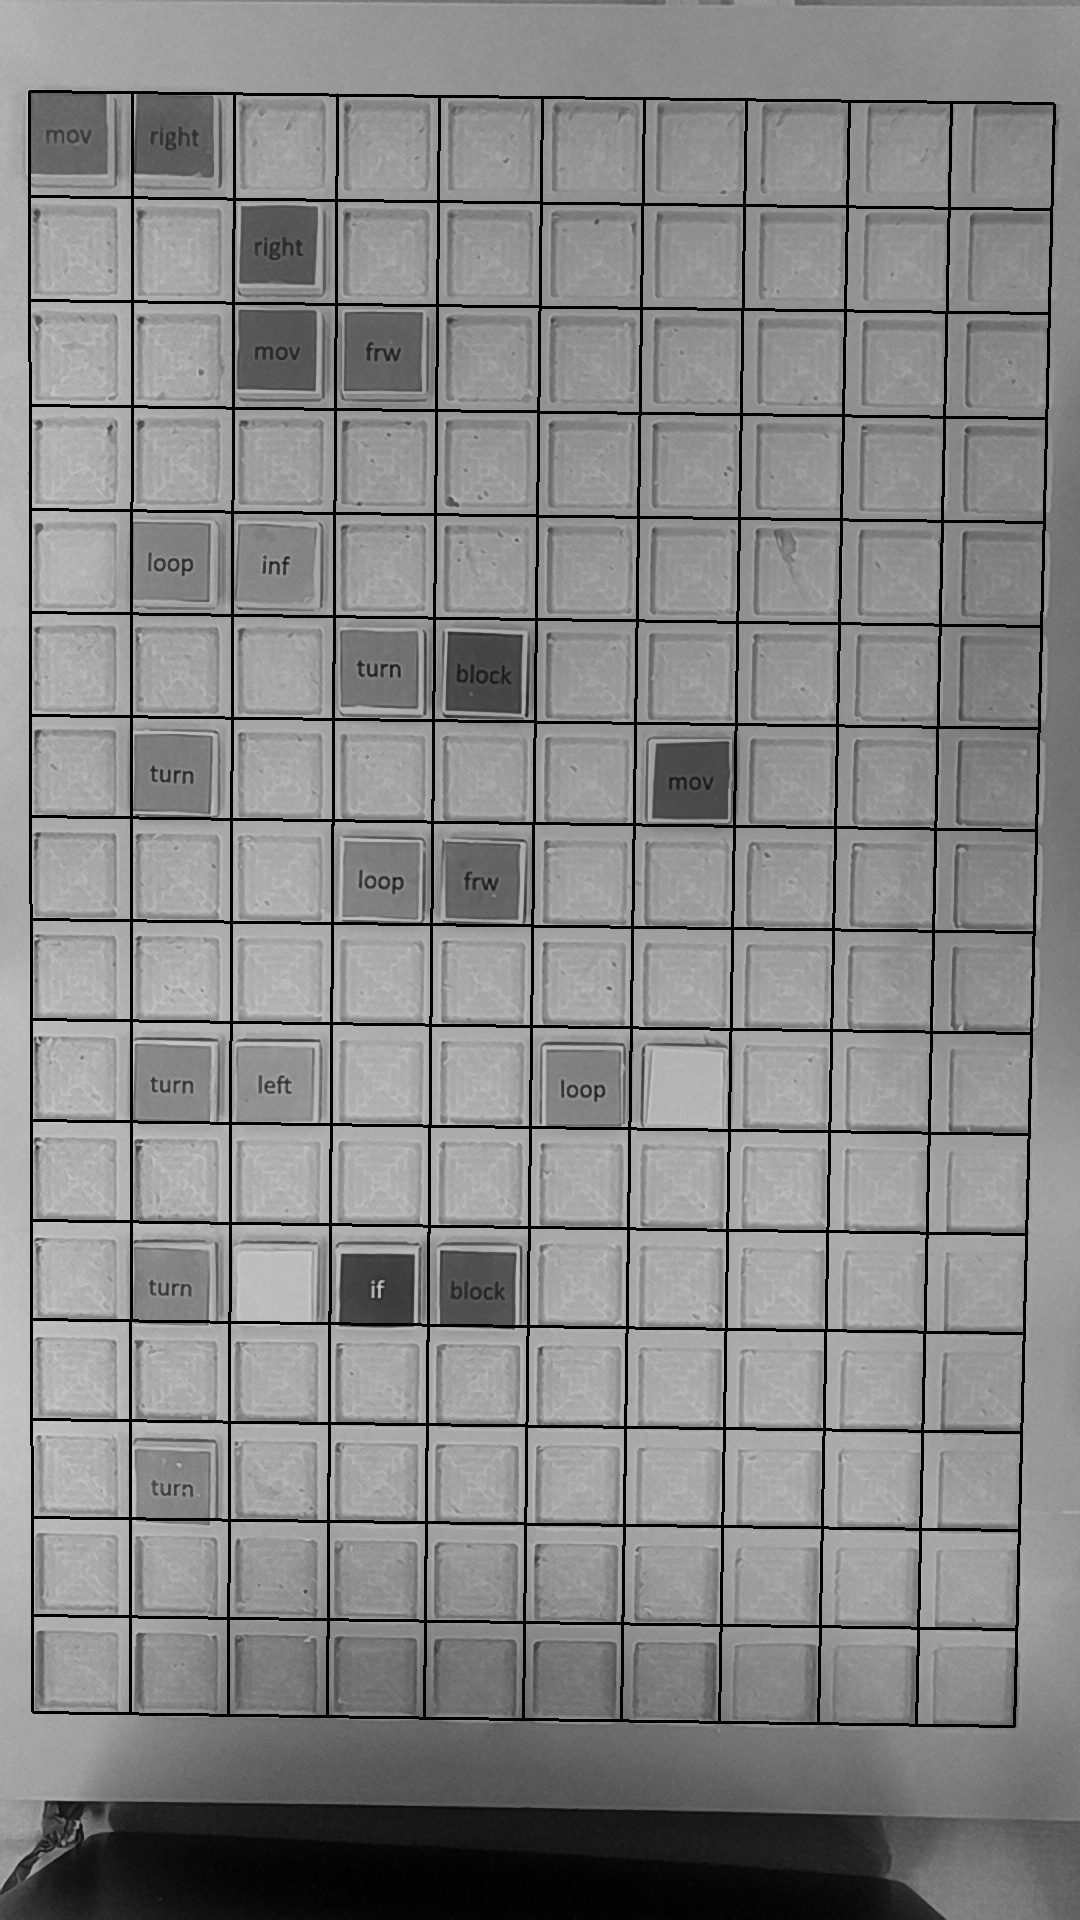
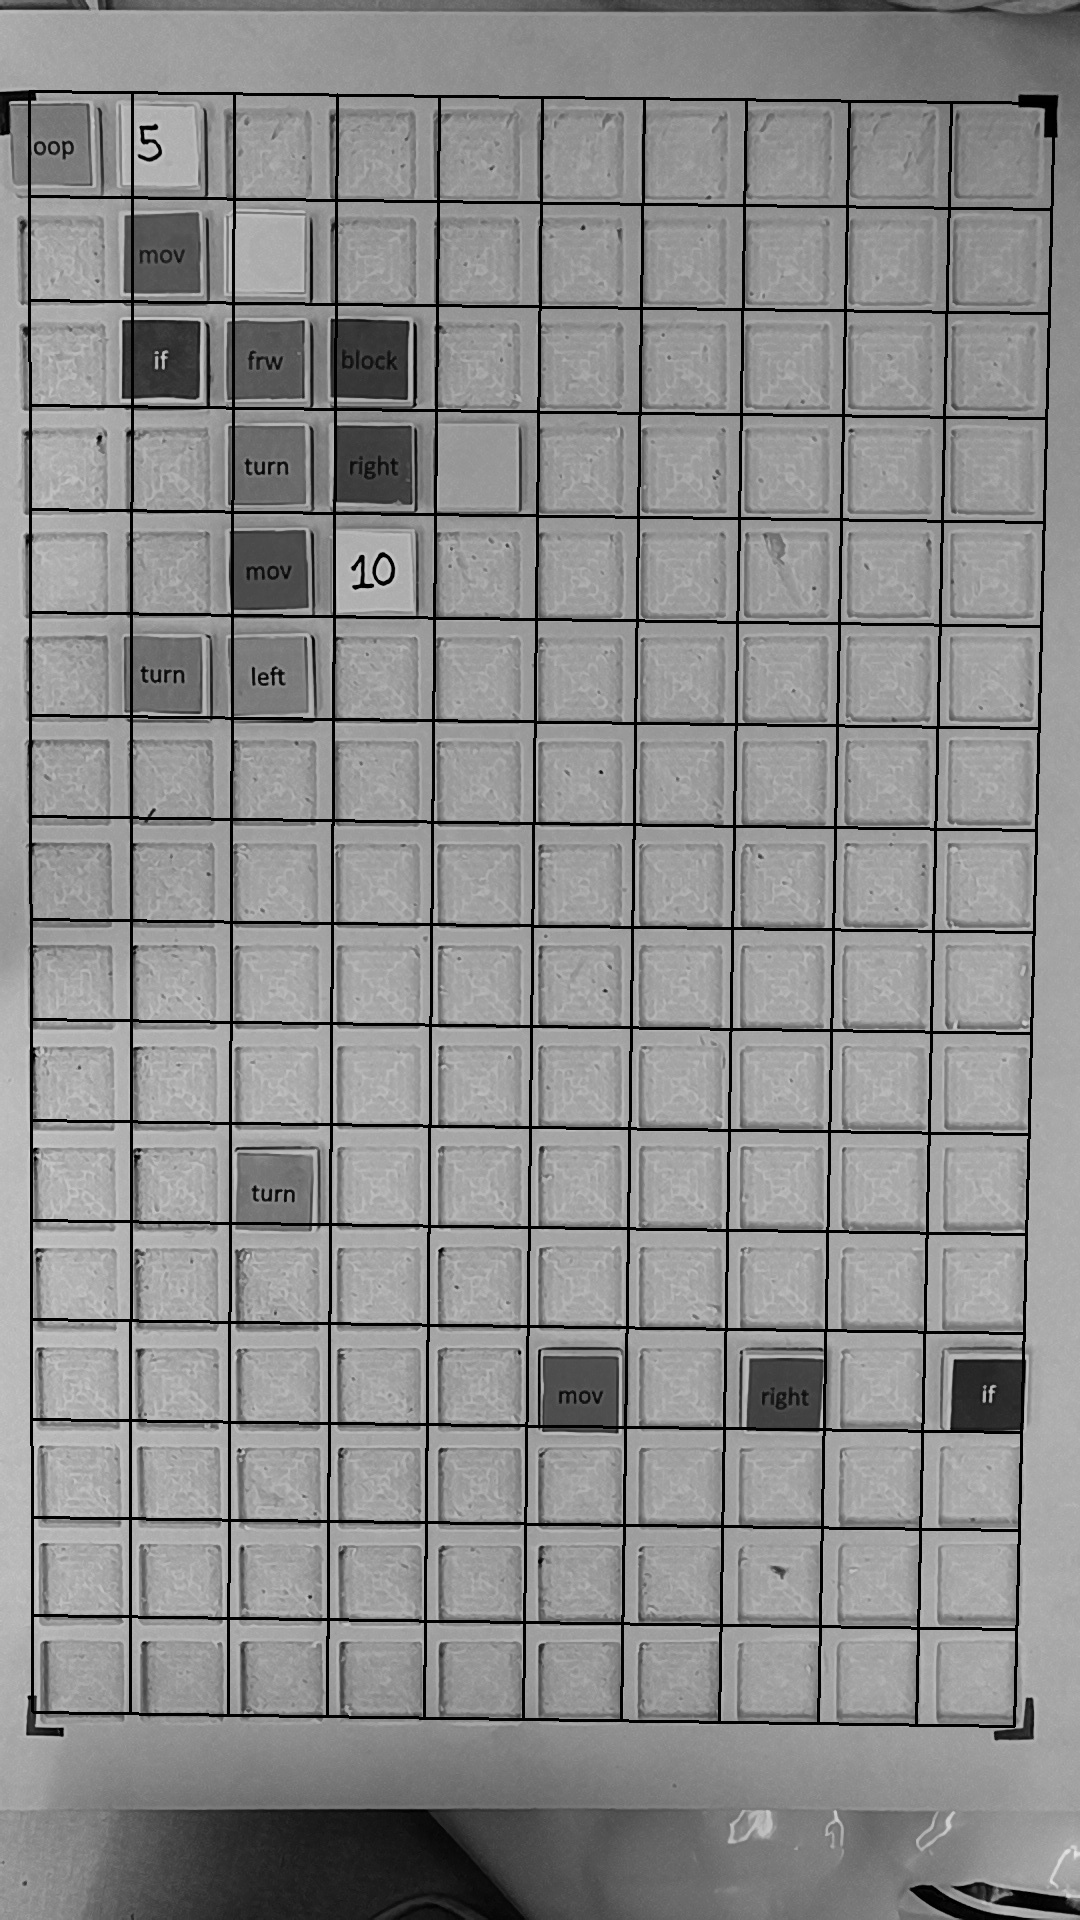
add camera capture feature

diff --git a/camera/capture.py b/camera/capture.py
@@ -1,0 +1,55 @@
+#!/usr/bin/env python3
+
+
+import cv2
+import depthai as dai
+import time
+import os
+
+def capture_image():
+    # Create pipeline
+    pipeline = dai.Pipeline()
+
+    # Define source and output
+    camRgb = pipeline.create(dai.node.ColorCamera)
+    xoutVideo = pipeline.create(dai.node.XLinkOut)
+
+    xoutVideo.setStreamName("video")
+
+    # Properties
+    camRgb.setBoardSocket(dai.CameraBoardSocket.CAM_A)
+    camRgb.setResolution(dai.ColorCameraProperties.SensorResolution.THE_1080_P)
+    camRgb.initialControl.setAutoFocusMode(dai.CameraControl.AutoFocusMode.AUTO)
+    camRgb.setVideoSize(1920, 1080)
+
+    xoutVideo.input.setBlocking(False)
+    xoutVideo.input.setQueueSize(1)
+
+    # Linking
+    camRgb.video.link(xoutVideo.input)
+
+    # Connect to device and start pipeline
+    with dai.Device(pipeline) as device:
+        video = device.getOutputQueue(name="video", maxSize=1, blocking=False)
+
+        print("Warming up camera for 2 seconds...")
+        time.sleep(2)  # let autofocus & white balance settle
+
+        # Capture several frames to let the camera stabilize
+        for _ in range(10):
+            video.tryGet()  # discard initial frames
+
+        # Now capture and save the image
+        for i in range(1):
+
+            videoIn = video.get()
+            frame = videoIn.getCvFrame()
+            filename = os.path.join("assets", f"frame_05{i}.jpg")
+            cv2.imwrite(filename, frame)
+            print("Frame saved as", filename)
+            return f"frame_05{i}.jpg"
+        # Optional: Show the frame
+        # cv2.imshow("Captured", frame)
+        # cv2.waitKey(0)
+
+    cv2.destroyAllWindows()

diff --git a/main.py b/main.py
@@ -3,13 +3,16 @@ from image_processing.grid import PerspectiveGrid
 from image_processing.ocr import EasyOCR
 from image_processing.ocr import EasyOCRClient
 from image_processing import OCR2Grid
+from camera.capture import capture_image
+
 import os
 import cv2
 import numpy as np
 
-
+image_path_captured = capture_image()
+print(image_path_captured)
 # Load and process the image
-image = Image.from_file("assets/oak-d_images/frame_010.jpg")
+image = Image.from_file(f"assets/{image_path_captured}")
 
 # Rotate the image
 rotated = image.rotate_90_clockwise()
@@ -46,7 +49,7 @@ rotated.save(temp_path)
 print("Rotated image saved to", temp_path)
 
 # Read Text using OCR MODEL
-ocr_reader = EasyOCRClient('127.0.0.1')
+ocr_reader = EasyOCRClient('172.23.189.49')
 ocr_list = ocr_reader.process_image(temp_path)
 
 # Clean up temporary file
